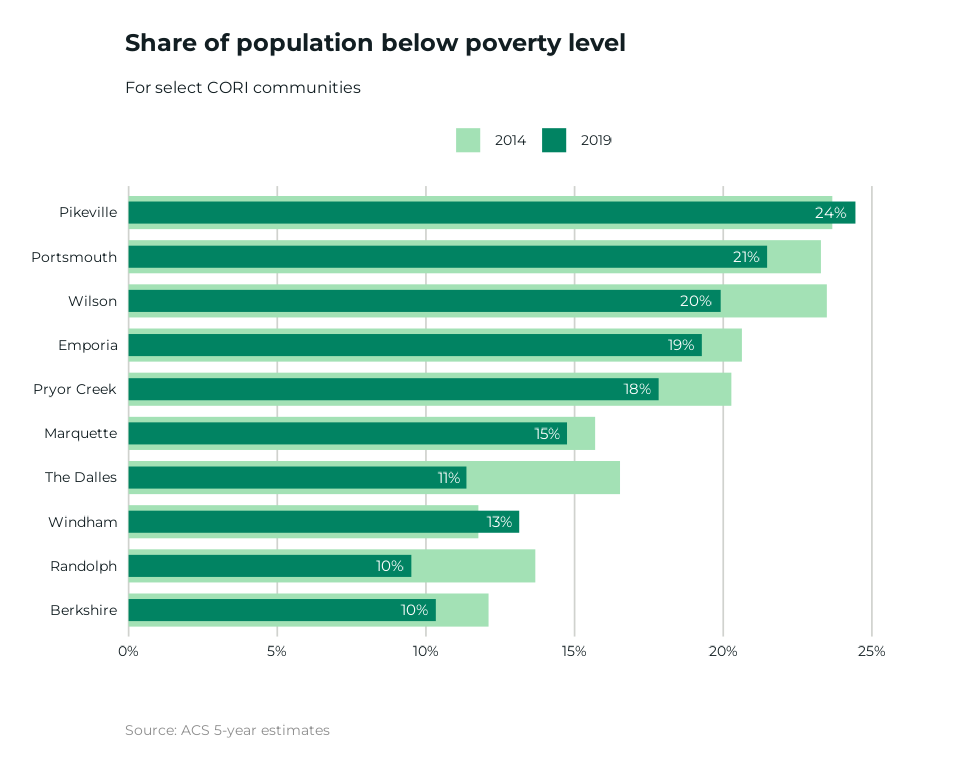
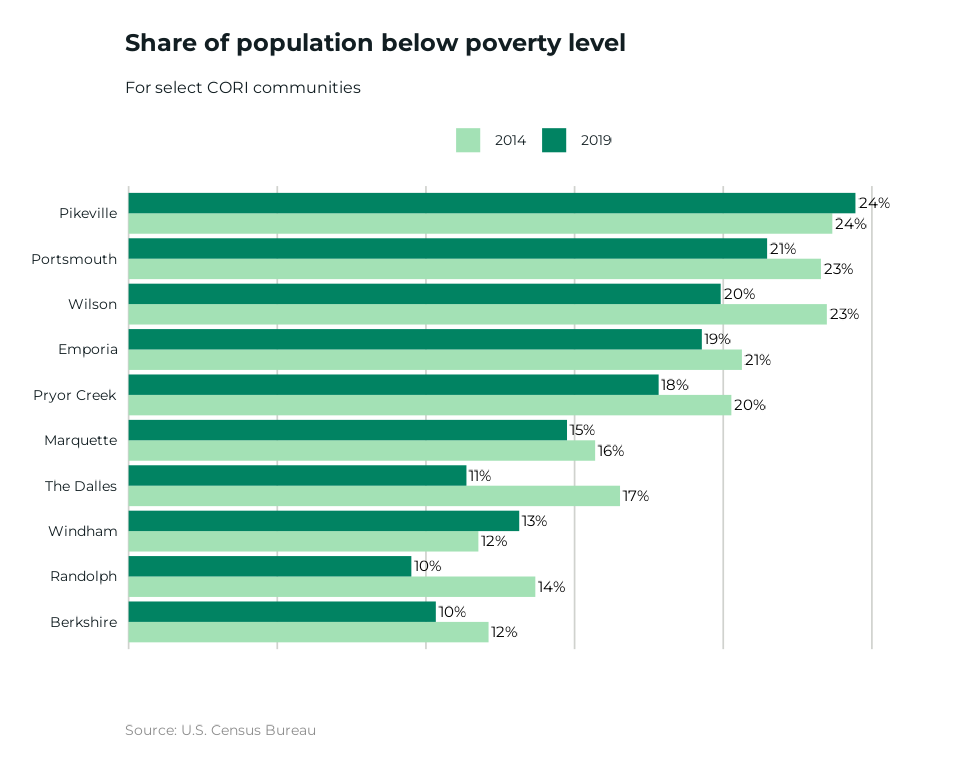
Deploying to gh-pages from @ ruralinnovation/cori.charts@58206a42a1b30e728ab182b521dfb5ab6410310d 🚀

Changed region(s): [[0.0312, 0.25, 0.9375, 0.8438], [0.1875, 0.9375, 0.3438, 0.9688]]

diff --git a/articles/cookbook.html b/articles/cookbook.html
@@ -109,13 +109,62 @@
 <span class="kw"><a href="https://rdrr.io/r/base/library.html" class="external-link">library</a></span><span class="op">(</span><span class="va"><a href="https://dplyr.tidyverse.org" class="external-link">dplyr</a></span><span class="op">)</span>
 <span class="kw"><a href="https://rdrr.io/r/base/library.html" class="external-link">library</a></span><span class="op">(</span><span class="va"><a href="https://tidyr.tidyverse.org" class="external-link">tidyr</a></span><span class="op">)</span>
 <span class="kw"><a href="https://rdrr.io/r/base/library.html" class="external-link">library</a></span><span class="op">(</span><span class="va"><a href="http://stringr.tidyverse.org" class="external-link">stringr</a></span><span class="op">)</span></code></pre></div>
+</div>
+<div class="section level2">
+<h2 id="load-your-data">Load your data<a class="anchor" aria-label="anchor" href="#load-your-data"></a>
+</h2>
+<p>We’ll be using a dataset which gives the population with an income below the poverty level in the last 12 months for a selection of RIN members</p>
+<div class="sourceCode" id="cb3"><pre class="downlit sourceCode r">
+<code class="sourceCode R"><span class="fu"><a href="https://rdrr.io/r/utils/data.html" class="external-link">data</a></span><span class="op">(</span><span class="va">cori_poverty</span><span class="op">)</span>
+<span class="fu">dplyr</span><span class="fu">::</span><span class="fu"><a href="https://dplyr.tidyverse.org/reference/glimpse.html" class="external-link">glimpse</a></span><span class="op">(</span><span class="va">cori_poverty</span><span class="op">)</span>
+<span class="co">#&gt; Rows: 10</span>
+<span class="co">#&gt; Columns: 8</span>
+<span class="co">#&gt; $ rin_community                     <span style="color: #949494; font-style: italic;">&lt;chr&gt;</span> "Berkshire", "Emporia", "Marquette",…</span>
+<span class="co">#&gt; $ state_abbr                        <span style="color: #949494; font-style: italic;">&lt;chr&gt;</span> "MA", "KS", "MI", "KY", "OH", "OK", …</span>
+<span class="co">#&gt; $ county                            <span style="color: #949494; font-style: italic;">&lt;chr&gt;</span> "Berkshire", "Crawford", "Marquette"…</span>
+<span class="co">#&gt; $ geoid_co                          <span style="color: #949494; font-style: italic;">&lt;chr&gt;</span> "25003", "20037", "26103", "21195", …</span>
+<span class="co">#&gt; $ estimate_pop_2014                 <span style="color: #949494; font-style: italic;">&lt;dbl&gt;</span> 130064, 39277, 67535, 64380, 78520, …</span>
+<span class="co">#&gt; $ estimate_pop_2019                 <span style="color: #949494; font-style: italic;">&lt;dbl&gt;</span> 126425, 38968, 66686, 59497, 76040, …</span>
+<span class="co">#&gt; $ estimate_below_poverty_level_2014 <span style="color: #949494; font-style: italic;">&lt;dbl&gt;</span> 15746, 8102, 10597, 15238, 18284, 83…</span>
+<span class="co">#&gt; $ estimate_below_poverty_level_2019 <span style="color: #949494; font-style: italic;">&lt;dbl&gt;</span> 13063, 7513, 9833, 14545, 16330, 731…</span></code></pre></div>
+<hr>
+<div class="section level3">
+<h3 id="horizontal-bar-chart">Horizontal Bar Chart<a class="anchor" aria-label="anchor" href="#horizontal-bar-chart"></a>
+</h3>
+<div class="sourceCode" id="cb4"><pre class="downlit sourceCode r">
+<code class="sourceCode R">
+<span class="va">cori_poverty</span> <span class="op"><a href="https://magrittr.tidyverse.org/reference/pipe.html" class="external-link">%&gt;%</a></span>
+  <span class="fu">ggplot2</span><span class="fu">::</span><span class="fu"><a href="https://ggplot2.tidyverse.org/reference/ggplot.html" class="external-link">ggplot</a></span><span class="op">(</span><span class="fu"><a href="https://ggplot2.tidyverse.org/reference/aes.html" class="external-link">aes</a></span><span class="op">(</span><span class="va">estimate_below_poverty_level_2019</span>, <span class="fu"><a href="https://rdrr.io/r/stats/reorder.factor.html" class="external-link">reorder</a></span><span class="op">(</span><span class="va">rin_community</span>, <span class="va">estimate_below_poverty_level_2019</span><span class="op">)</span><span class="op">)</span><span class="op">)</span> <span class="op">+</span>
+  <span class="fu">ggplot2</span><span class="fu">::</span><span class="fu"><a href="https://ggplot2.tidyverse.org/reference/geom_bar.html" class="external-link">geom_col</a></span><span class="op">(</span>fill <span class="op">=</span> <span class="va">cori_colors</span><span class="op">[</span><span class="st">"Emerald"</span><span class="op">]</span><span class="op">)</span> <span class="op">+</span>
+  <span class="fu"><a href="https://ggplot2.tidyverse.org/reference/geom_text.html" class="external-link">geom_text</a></span><span class="op">(</span>
+    <span class="fu"><a href="https://ggplot2.tidyverse.org/reference/aes.html" class="external-link">aes</a></span><span class="op">(</span>label <span class="op">=</span> <span class="fu">scales</span><span class="fu">::</span><span class="fu"><a href="https://scales.r-lib.org/reference/number.html" class="external-link">number</a></span><span class="op">(</span><span class="va">estimate_below_poverty_level_2019</span>, accuracy <span class="op">=</span> <span class="fl">1</span>, big.mark <span class="op">=</span> <span class="st">","</span><span class="op">)</span><span class="op">)</span>,
+    hjust <span class="op">=</span> <span class="op">-</span><span class="fl">.1</span>,
+    family <span class="op">=</span> <span class="st">"Montserrat"</span>
+  <span class="op">)</span> <span class="op">+</span>
+  <span class="fu">ggplot2</span><span class="fu">::</span><span class="fu"><a href="https://ggplot2.tidyverse.org/reference/scale_continuous.html" class="external-link">scale_x_continuous</a></span><span class="op">(</span>
+    labels <span class="op">=</span> <span class="cn">NULL</span>,
+    expand <span class="op">=</span> <span class="fu"><a href="https://ggplot2.tidyverse.org/reference/expansion.html" class="external-link">expansion</a></span><span class="op">(</span>mult <span class="op">=</span> <span class="fu"><a href="https://rdrr.io/r/base/c.html" class="external-link">c</a></span><span class="op">(</span><span class="fl">.005</span>, <span class="fl">.1</span><span class="op">)</span><span class="op">)</span>
+  <span class="op">)</span> <span class="op">+</span>
+  <span class="fu"><a href="../reference/theme_cori.html">theme_cori_horizontal_bars</a></span><span class="op">(</span><span class="op">)</span> <span class="op">+</span>
+  <span class="fu">ggplot2</span><span class="fu">::</span><span class="fu"><a href="https://ggplot2.tidyverse.org/reference/theme.html" class="external-link">theme</a></span><span class="op">(</span>
+    panel.grid.major.x <span class="op">=</span> <span class="fu"><a href="https://ggplot2.tidyverse.org/reference/element.html" class="external-link">element_blank</a></span><span class="op">(</span><span class="op">)</span>
+  <span class="op">)</span> <span class="op">+</span>
+  <span class="fu">ggplot2</span><span class="fu">::</span><span class="fu"><a href="https://ggplot2.tidyverse.org/reference/labs.html" class="external-link">labs</a></span><span class="op">(</span>
+    title <span class="op">=</span> <span class="st">"Population living below the poverty level"</span>,
+    subtitle <span class="op">=</span> <span class="st">"For select RIN communities (2019)"</span>,
+    y <span class="op">=</span> <span class="cn">NULL</span>,
+    x <span class="op">=</span> <span class="cn">NULL</span>,
+    caption <span class="op">=</span> <span class="st">"Source: ACS 5-year estimates (2019)"</span>
+  <span class="op">)</span></code></pre></div>
+<p><img src="cookbook_files/figure-html/unnamed-chunk-5-1.png" width="100%"></p>
+<hr>
+</div>
 <div class="section level3">
 <h3 id="grouped-bar-chart">Grouped Bar Chart<a class="anchor" aria-label="anchor" href="#grouped-bar-chart"></a>
 </h3>
 <p>Pivot the data into a long format for easy plotting</p>
-<div class="sourceCode" id="cb3"><pre class="downlit sourceCode r">
-<code class="sourceCode R"><span class="fu"><a href="https://rdrr.io/r/utils/data.html" class="external-link">data</a></span><span class="op">(</span><span class="va">cori_poverty</span><span class="op">)</span>
-
+<div class="sourceCode" id="cb5"><pre class="downlit sourceCode r">
+<code class="sourceCode R">
 <span class="va">grouped_bar_data</span> <span class="op">&lt;-</span> <span class="va">cori_poverty</span> <span class="op"><a href="https://magrittr.tidyverse.org/reference/pipe.html" class="external-link">%&gt;%</a></span>
   <span class="fu"><a href="https://dplyr.tidyverse.org/reference/mutate.html" class="external-link">mutate</a></span><span class="op">(</span>
     percent_below_poverty_2014 <span class="op">=</span> <span class="va">estimate_below_poverty_level_2014</span> <span class="op">/</span> <span class="va">estimate_pop_2014</span>,
@@ -131,7 +180,7 @@
     rin_community <span class="op">=</span> <span class="fu"><a href="https://rdrr.io/r/stats/reorder.factor.html" class="external-link">reorder</a></span><span class="op">(</span><span class="va">rin_community</span>, <span class="va">percent_below_poverty</span><span class="op">)</span>
   <span class="op">)</span> </code></pre></div>
 <p>With data labels</p>
-<div class="sourceCode" id="cb4"><pre class="downlit sourceCode r">
+<div class="sourceCode" id="cb6"><pre class="downlit sourceCode r">
 <code class="sourceCode R">
 <span class="va">grouped_bar_data</span> <span class="op"><a href="https://magrittr.tidyverse.org/reference/pipe.html" class="external-link">%&gt;%</a></span>
   <span class="fu"><a href="https://ggplot2.tidyverse.org/reference/ggplot.html" class="external-link">ggplot</a></span><span class="op">(</span><span class="fu"><a href="https://ggplot2.tidyverse.org/reference/aes.html" class="external-link">aes</a></span><span class="op">(</span><span class="va">percent_below_poverty</span>, <span class="va">rin_community</span>, fill <span class="op">=</span> <span class="va">year</span><span class="op">)</span><span class="op">)</span> <span class="op">+</span>
@@ -140,7 +189,7 @@
   <span class="fu"><a href="https://ggplot2.tidyverse.org/reference/geom_text.html" class="external-link">geom_text</a></span><span class="op">(</span>
     <span class="co"># accuracy determines how many digits are shown</span>
     <span class="co"># To show one decimal, update accuracy to 0.1</span>
-    <span class="fu"><a href="https://ggplot2.tidyverse.org/reference/aes.html" class="external-link">aes</a></span><span class="op">(</span>label <span class="op">=</span> <span class="fu">scales</span><span class="fu">::</span><span class="fu"><a href="https://scales.r-lib.org/reference/label_percent.html" class="external-link">percent</a></span><span class="op">(</span><span class="va">percent_below_poverty</span>, accuracy <span class="op">=</span> <span class="fl">1</span><span class="op">)</span><span class="op">)</span>,
+    <span class="fu"><a href="https://ggplot2.tidyverse.org/reference/aes.html" class="external-link">aes</a></span><span class="op">(</span>label <span class="op">=</span> <span class="fu">scales</span><span class="fu">::</span><span class="fu"><a href="https://scales.r-lib.org/reference/percent_format.html" class="external-link">percent</a></span><span class="op">(</span><span class="va">percent_below_poverty</span>, accuracy <span class="op">=</span> <span class="fl">1</span><span class="op">)</span><span class="op">)</span>,
     position <span class="op">=</span> <span class="fu"><a href="https://ggplot2.tidyverse.org/reference/position_dodge.html" class="external-link">position_dodge2</a></span><span class="op">(</span>width <span class="op">=</span> <span class="fl">0.9</span>, reverse <span class="op">=</span> <span class="cn">FALSE</span><span class="op">)</span>,
     hjust <span class="op">=</span> <span class="op">-</span><span class="fl">.1</span>,
     family <span class="op">=</span> <span class="st">"Montserrat"</span>
@@ -159,9 +208,9 @@
     caption <span class="op">=</span> <span class="st">"Source: U.S. Census Bureau"</span>
   <span class="op">)</span> <span class="op">+</span>
   <span class="fu"><a href="../reference/theme_cori.html">theme_cori_horizontal_bars</a></span><span class="op">(</span><span class="op">)</span></code></pre></div>
-<p><img src="cookbook_files/figure-html/unnamed-chunk-5-1.png" width="100%"></p>
+<p><img src="cookbook_files/figure-html/unnamed-chunk-7-1.png" width="100%"></p>
 <p>Without data labels</p>
-<div class="sourceCode" id="cb5"><pre class="downlit sourceCode r">
+<div class="sourceCode" id="cb7"><pre class="downlit sourceCode r">
 <code class="sourceCode R">
 <span class="va">grouped_bar_data</span> <span class="op"><a href="https://magrittr.tidyverse.org/reference/pipe.html" class="external-link">%&gt;%</a></span>
   <span class="fu"><a href="https://ggplot2.tidyverse.org/reference/ggplot.html" class="external-link">ggplot</a></span><span class="op">(</span><span class="fu"><a href="https://ggplot2.tidyverse.org/reference/aes.html" class="external-link">aes</a></span><span class="op">(</span><span class="va">percent_below_poverty</span>, <span class="va">rin_community</span>, fill <span class="op">=</span> <span class="va">year</span><span class="op">)</span><span class="op">)</span> <span class="op">+</span>
@@ -180,13 +229,13 @@
     caption <span class="op">=</span> <span class="st">"Source: U.S. Census Bureau"</span>
   <span class="op">)</span> <span class="op">+</span>
   <span class="fu"><a href="../reference/theme_cori.html">theme_cori_horizontal_bars</a></span><span class="op">(</span><span class="op">)</span></code></pre></div>
-<p><img src="cookbook_files/figure-html/unnamed-chunk-6-1.png" width="100%"></p>
+<p><img src="cookbook_files/figure-html/unnamed-chunk-8-1.png" width="100%"></p>
+<hr>
 </div>
-</div>
-<div class="section level2">
-<h2 id="bullet-chart">Bullet Chart<a class="anchor" aria-label="anchor" href="#bullet-chart"></a>
-</h2>
-<div class="sourceCode" id="cb6"><pre class="downlit sourceCode r">
+<div class="section level3">
+<h3 id="bullet-chart">Bullet Chart<a class="anchor" aria-label="anchor" href="#bullet-chart"></a>
+</h3>
+<div class="sourceCode" id="cb8"><pre class="downlit sourceCode r">
 <code class="sourceCode R">
 <span class="va">bullet_chart_data</span> <span class="op">&lt;-</span> <span class="va">grouped_bar_data</span> <span class="op"><a href="https://magrittr.tidyverse.org/reference/pipe.html" class="external-link">%&gt;%</a></span>
   <span class="fu">dplyr</span><span class="fu">::</span><span class="fu"><a href="https://dplyr.tidyverse.org/reference/mutate.html" class="external-link">mutate</a></span><span class="op">(</span>
@@ -198,7 +247,7 @@
   <span class="fu"><a href="https://ggplot2.tidyverse.org/reference/geom_bar.html" class="external-link">geom_col</a></span><span class="op">(</span>width <span class="op">=</span> <span class="va">bullet_chart_data</span><span class="op">$</span><span class="va">width</span><span class="op">)</span> <span class="op">+</span>
   <span class="fu"><a href="https://ggplot2.tidyverse.org/reference/geom_text.html" class="external-link">geom_text</a></span><span class="op">(</span>
     data <span class="op">=</span> <span class="fu">dplyr</span><span class="fu">::</span><span class="fu"><a href="https://dplyr.tidyverse.org/reference/filter.html" class="external-link">filter</a></span><span class="op">(</span><span class="va">bullet_chart_data</span>, <span class="va">year</span> <span class="op">==</span> <span class="st">"2019"</span><span class="op">)</span>,
-    <span class="fu"><a href="https://ggplot2.tidyverse.org/reference/aes.html" class="external-link">aes</a></span><span class="op">(</span>x <span class="op">=</span> <span class="va">percent_below_poverty</span>, label <span class="op">=</span> <span class="fu">scales</span><span class="fu">::</span><span class="fu"><a href="https://scales.r-lib.org/reference/label_percent.html" class="external-link">percent</a></span><span class="op">(</span><span class="va">percent_below_poverty</span>, accuracy <span class="op">=</span> <span class="fl">1</span><span class="op">)</span><span class="op">)</span>,
+    <span class="fu"><a href="https://ggplot2.tidyverse.org/reference/aes.html" class="external-link">aes</a></span><span class="op">(</span>x <span class="op">=</span> <span class="va">percent_below_poverty</span>, label <span class="op">=</span> <span class="fu">scales</span><span class="fu">::</span><span class="fu"><a href="https://scales.r-lib.org/reference/percent_format.html" class="external-link">percent</a></span><span class="op">(</span><span class="va">percent_below_poverty</span>, accuracy <span class="op">=</span> <span class="fl">1</span><span class="op">)</span><span class="op">)</span>,
     hjust <span class="op">=</span> <span class="fl">1.3</span>,
     family <span class="op">=</span> <span class="st">"Montserrat"</span>,
     color <span class="op">=</span> <span class="st">"white"</span>
@@ -216,7 +265,8 @@
     caption <span class="op">=</span> <span class="st">"Source: ACS 5-year estimates"</span>
   <span class="op">)</span> <span class="op">+</span>
   <span class="fu"><a href="../reference/theme_cori.html">theme_cori_horizontal_bars</a></span><span class="op">(</span><span class="op">)</span></code></pre></div>
-<p><img src="cookbook_files/figure-html/unnamed-chunk-7-1.png" width="100%"></p>
+<p><img src="cookbook_files/figure-html/unnamed-chunk-9-1.png" width="100%"></p>
+</div>
 </div>
   </main><aside class="col-md-3"><nav id="toc"><h2>On this page</h2>
     </nav></aside>

diff --git a/reference/update_cori_geom_defaults.html b/reference/update_cori_geom_defaults.html
@@ -81,7 +81,7 @@ CORI style guide, with sensible defaults.</p>
 <span class="r-in">  <span class="fu"><a href="https://dplyr.tidyverse.org/reference/summarise.html" class="external-link">summarize</a></span><span class="op">(</span>percent_working_remotely <span class="op">=</span> <span class="fu"><a href="https://rdrr.io/r/base/mean.html" class="external-link">mean</a></span><span class="op">(</span><span class="va">percent_working_remotely</span><span class="op">)</span><span class="op">)</span> <span class="op"><a href="https://magrittr.tidyverse.org/reference/pipe.html" class="external-link">%&gt;%</a></span></span>
 <span class="r-in">  <span class="fu"><a href="https://ggplot2.tidyverse.org/reference/ggplot.html" class="external-link">ggplot</a></span><span class="op">(</span><span class="fu"><a href="https://ggplot2.tidyverse.org/reference/aes.html" class="external-link">aes</a></span><span class="op">(</span><span class="va">date</span>, <span class="va">percent_working_remotely</span><span class="op">)</span><span class="op">)</span> <span class="op">+</span></span>
 <span class="r-in">  <span class="fu"><a href="https://ggplot2.tidyverse.org/reference/geom_abline.html" class="external-link">geom_hline</a></span><span class="op">(</span>yintercept <span class="op">=</span> <span class="fl">0.12</span><span class="op">)</span> <span class="op">+</span></span>
-<span class="r-in">  <span class="fu"><a href="https://ggplot2.tidyverse.org/reference/scale_continuous.html" class="external-link">scale_y_continuous</a></span><span class="op">(</span>labels <span class="op">=</span> <span class="fu">scales</span><span class="fu">::</span><span class="va"><a href="https://scales.r-lib.org/reference/label_percent.html" class="external-link">percent</a></span><span class="op">)</span> <span class="op">+</span></span>
+<span class="r-in">  <span class="fu"><a href="https://ggplot2.tidyverse.org/reference/scale_continuous.html" class="external-link">scale_y_continuous</a></span><span class="op">(</span>labels <span class="op">=</span> <span class="fu">scales</span><span class="fu">::</span><span class="va"><a href="https://scales.r-lib.org/reference/percent_format.html" class="external-link">percent</a></span><span class="op">)</span> <span class="op">+</span></span>
 <span class="r-in">  <span class="fu"><a href="https://ggplot2.tidyverse.org/reference/geom_path.html" class="external-link">geom_line</a></span><span class="op">(</span><span class="op">)</span> <span class="op">+</span></span>
 <span class="r-in">  <span class="fu"><a href="https://ggplot2.tidyverse.org/reference/geom_point.html" class="external-link">geom_point</a></span><span class="op">(</span><span class="op">)</span></span>
 <span class="r-plt img"><img src="update_cori_geom_defaults-1.png" alt="" width="700" height="433"></span>

diff --git a/index.html b/index.html
@@ -110,7 +110,7 @@
   <span class="fu"><a href="https://ggplot2.tidyverse.org/reference/geom_point.html" class="external-link">geom_point</a></span><span class="op">(</span><span class="op">)</span> <span class="op">+</span>
   <span class="fu"><a href="reference/scales.html">scale_color_cori</a></span><span class="op">(</span>guide <span class="op">=</span> <span class="fu"><a href="https://ggplot2.tidyverse.org/reference/guide_legend.html" class="external-link">guide_legend</a></span><span class="op">(</span>reverse <span class="op">=</span> <span class="cn">TRUE</span><span class="op">)</span><span class="op">)</span> <span class="op">+</span>
   <span class="fu"><a href="https://ggplot2.tidyverse.org/reference/scale_date.html" class="external-link">scale_x_date</a></span><span class="op">(</span>date_breaks <span class="op">=</span> <span class="st">"1 month"</span>, date_labels <span class="op">=</span>  <span class="st">"%b"</span><span class="op">)</span> <span class="op">+</span>
-  <span class="fu"><a href="https://ggplot2.tidyverse.org/reference/scale_continuous.html" class="external-link">scale_y_continuous</a></span><span class="op">(</span>labels <span class="op">=</span> <span class="fu">scales</span><span class="fu">::</span><span class="va"><a href="https://scales.r-lib.org/reference/label_percent.html" class="external-link">percent</a></span>, limits <span class="op">=</span> <span class="fu"><a href="https://rdrr.io/r/base/c.html" class="external-link">c</a></span><span class="op">(</span><span class="cn">NA</span>, <span class="fl">0.8</span><span class="op">)</span><span class="op">)</span> <span class="op">+</span>
+  <span class="fu"><a href="https://ggplot2.tidyverse.org/reference/scale_continuous.html" class="external-link">scale_y_continuous</a></span><span class="op">(</span>labels <span class="op">=</span> <span class="fu">scales</span><span class="fu">::</span><span class="va"><a href="https://scales.r-lib.org/reference/percent_format.html" class="external-link">percent</a></span>, limits <span class="op">=</span> <span class="fu"><a href="https://rdrr.io/r/base/c.html" class="external-link">c</a></span><span class="op">(</span><span class="cn">NA</span>, <span class="fl">0.8</span><span class="op">)</span><span class="op">)</span> <span class="op">+</span>
   <span class="fu"><a href="https://ggplot2.tidyverse.org/reference/labs.html" class="external-link">labs</a></span><span class="op">(</span>title <span class="op">=</span> <span class="st">"Working remotely during 2021"</span>,
        subtitle <span class="op">=</span> <span class="st">"By education level"</span>,
        x <span class="op">=</span> <span class="cn">NULL</span>,

diff --git a/reference/colors.html b/reference/colors.html
@@ -103,8 +103,8 @@ formats ready for <a href="https://ggplot2.tidyverse.org/reference/ggplot2-packa
 <span class="r-out co"><span class="r-pr">#&gt;</span>         rgb(x[, 1L], x[, 2L], x[, 3L], x[, 4L], maxColorValue = 255)</span>
 <span class="r-out co"><span class="r-pr">#&gt;</span>     else rgb(x[, 1L], x[, 2L], x[, 3L], maxColorValue = 255)</span>
 <span class="r-out co"><span class="r-pr">#&gt;</span> }</span>
-<span class="r-out co"><span class="r-pr">#&gt;</span> &lt;bytecode: 0x5563194714c0&gt;</span>
-<span class="r-out co"><span class="r-pr">#&gt;</span> &lt;environment: 0x556319472608&gt;</span>
+<span class="r-out co"><span class="r-pr">#&gt;</span> &lt;bytecode: 0x5588fae7b6f0&gt;</span>
+<span class="r-out co"><span class="r-pr">#&gt;</span> &lt;environment: 0x5588fae78c38&gt;</span>
 </code></pre></div>
     </div>
   </main><aside class="col-md-3"><nav id="toc"><h2>On this page</h2>
